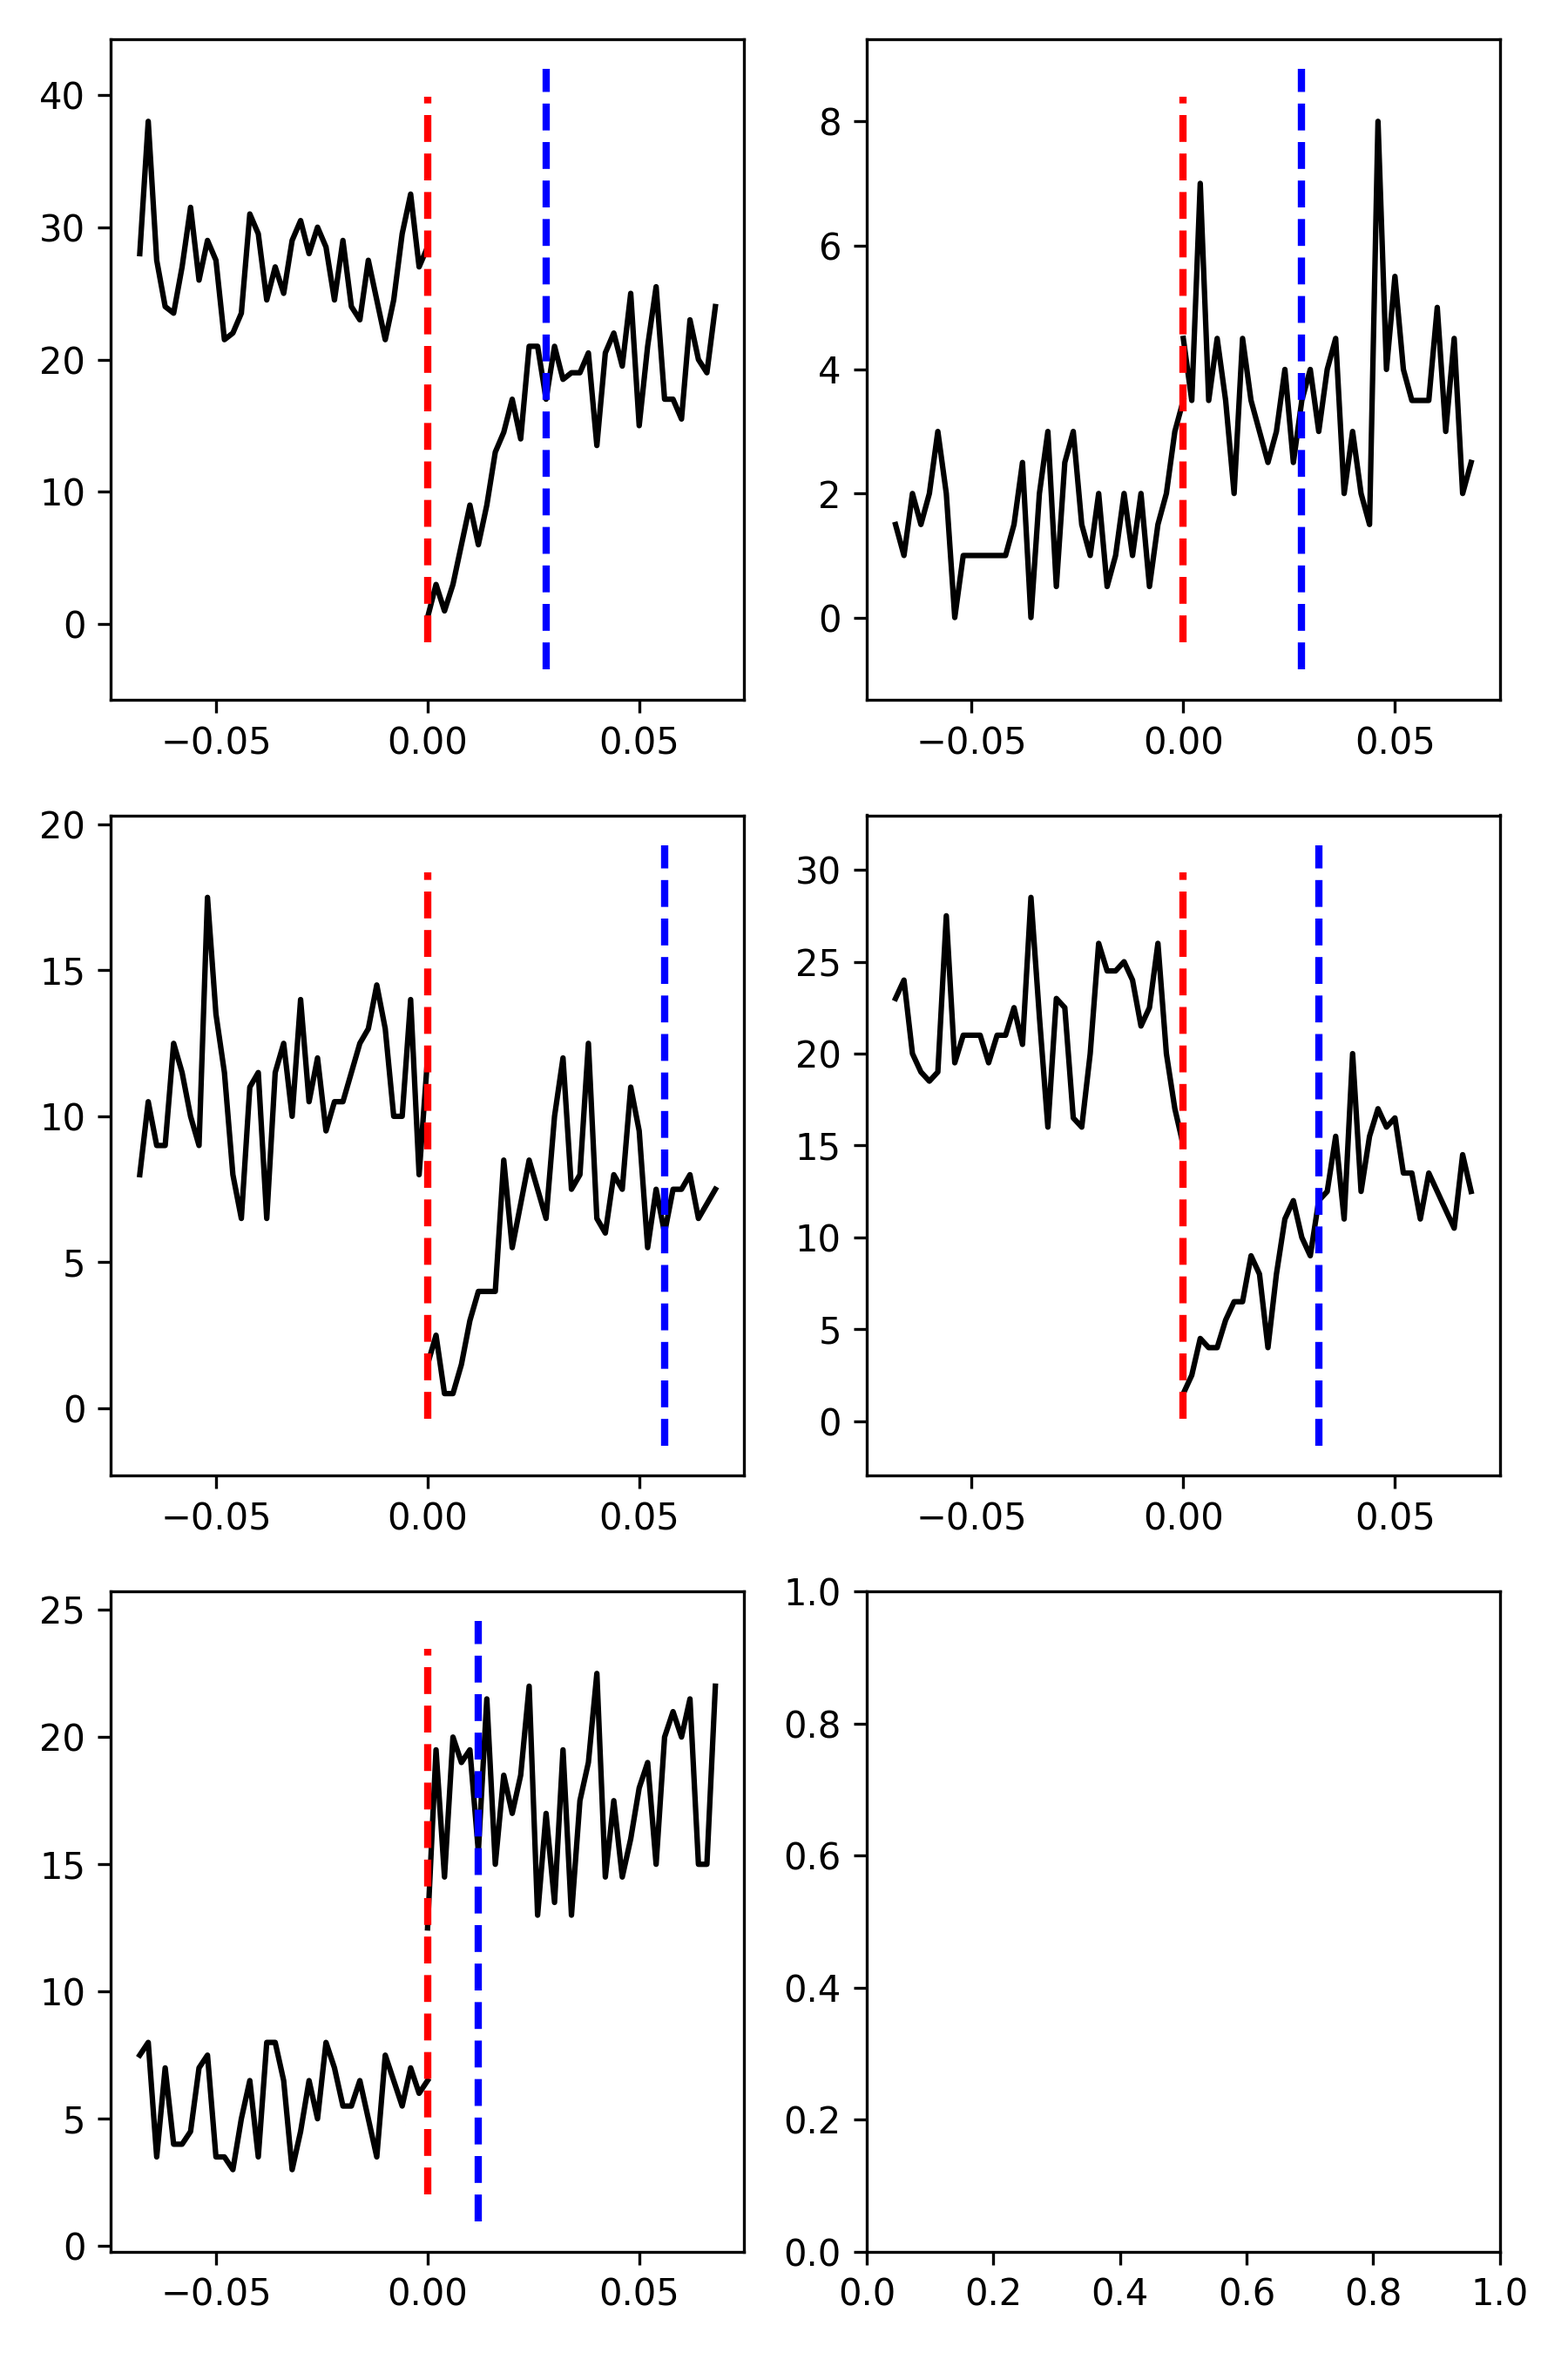
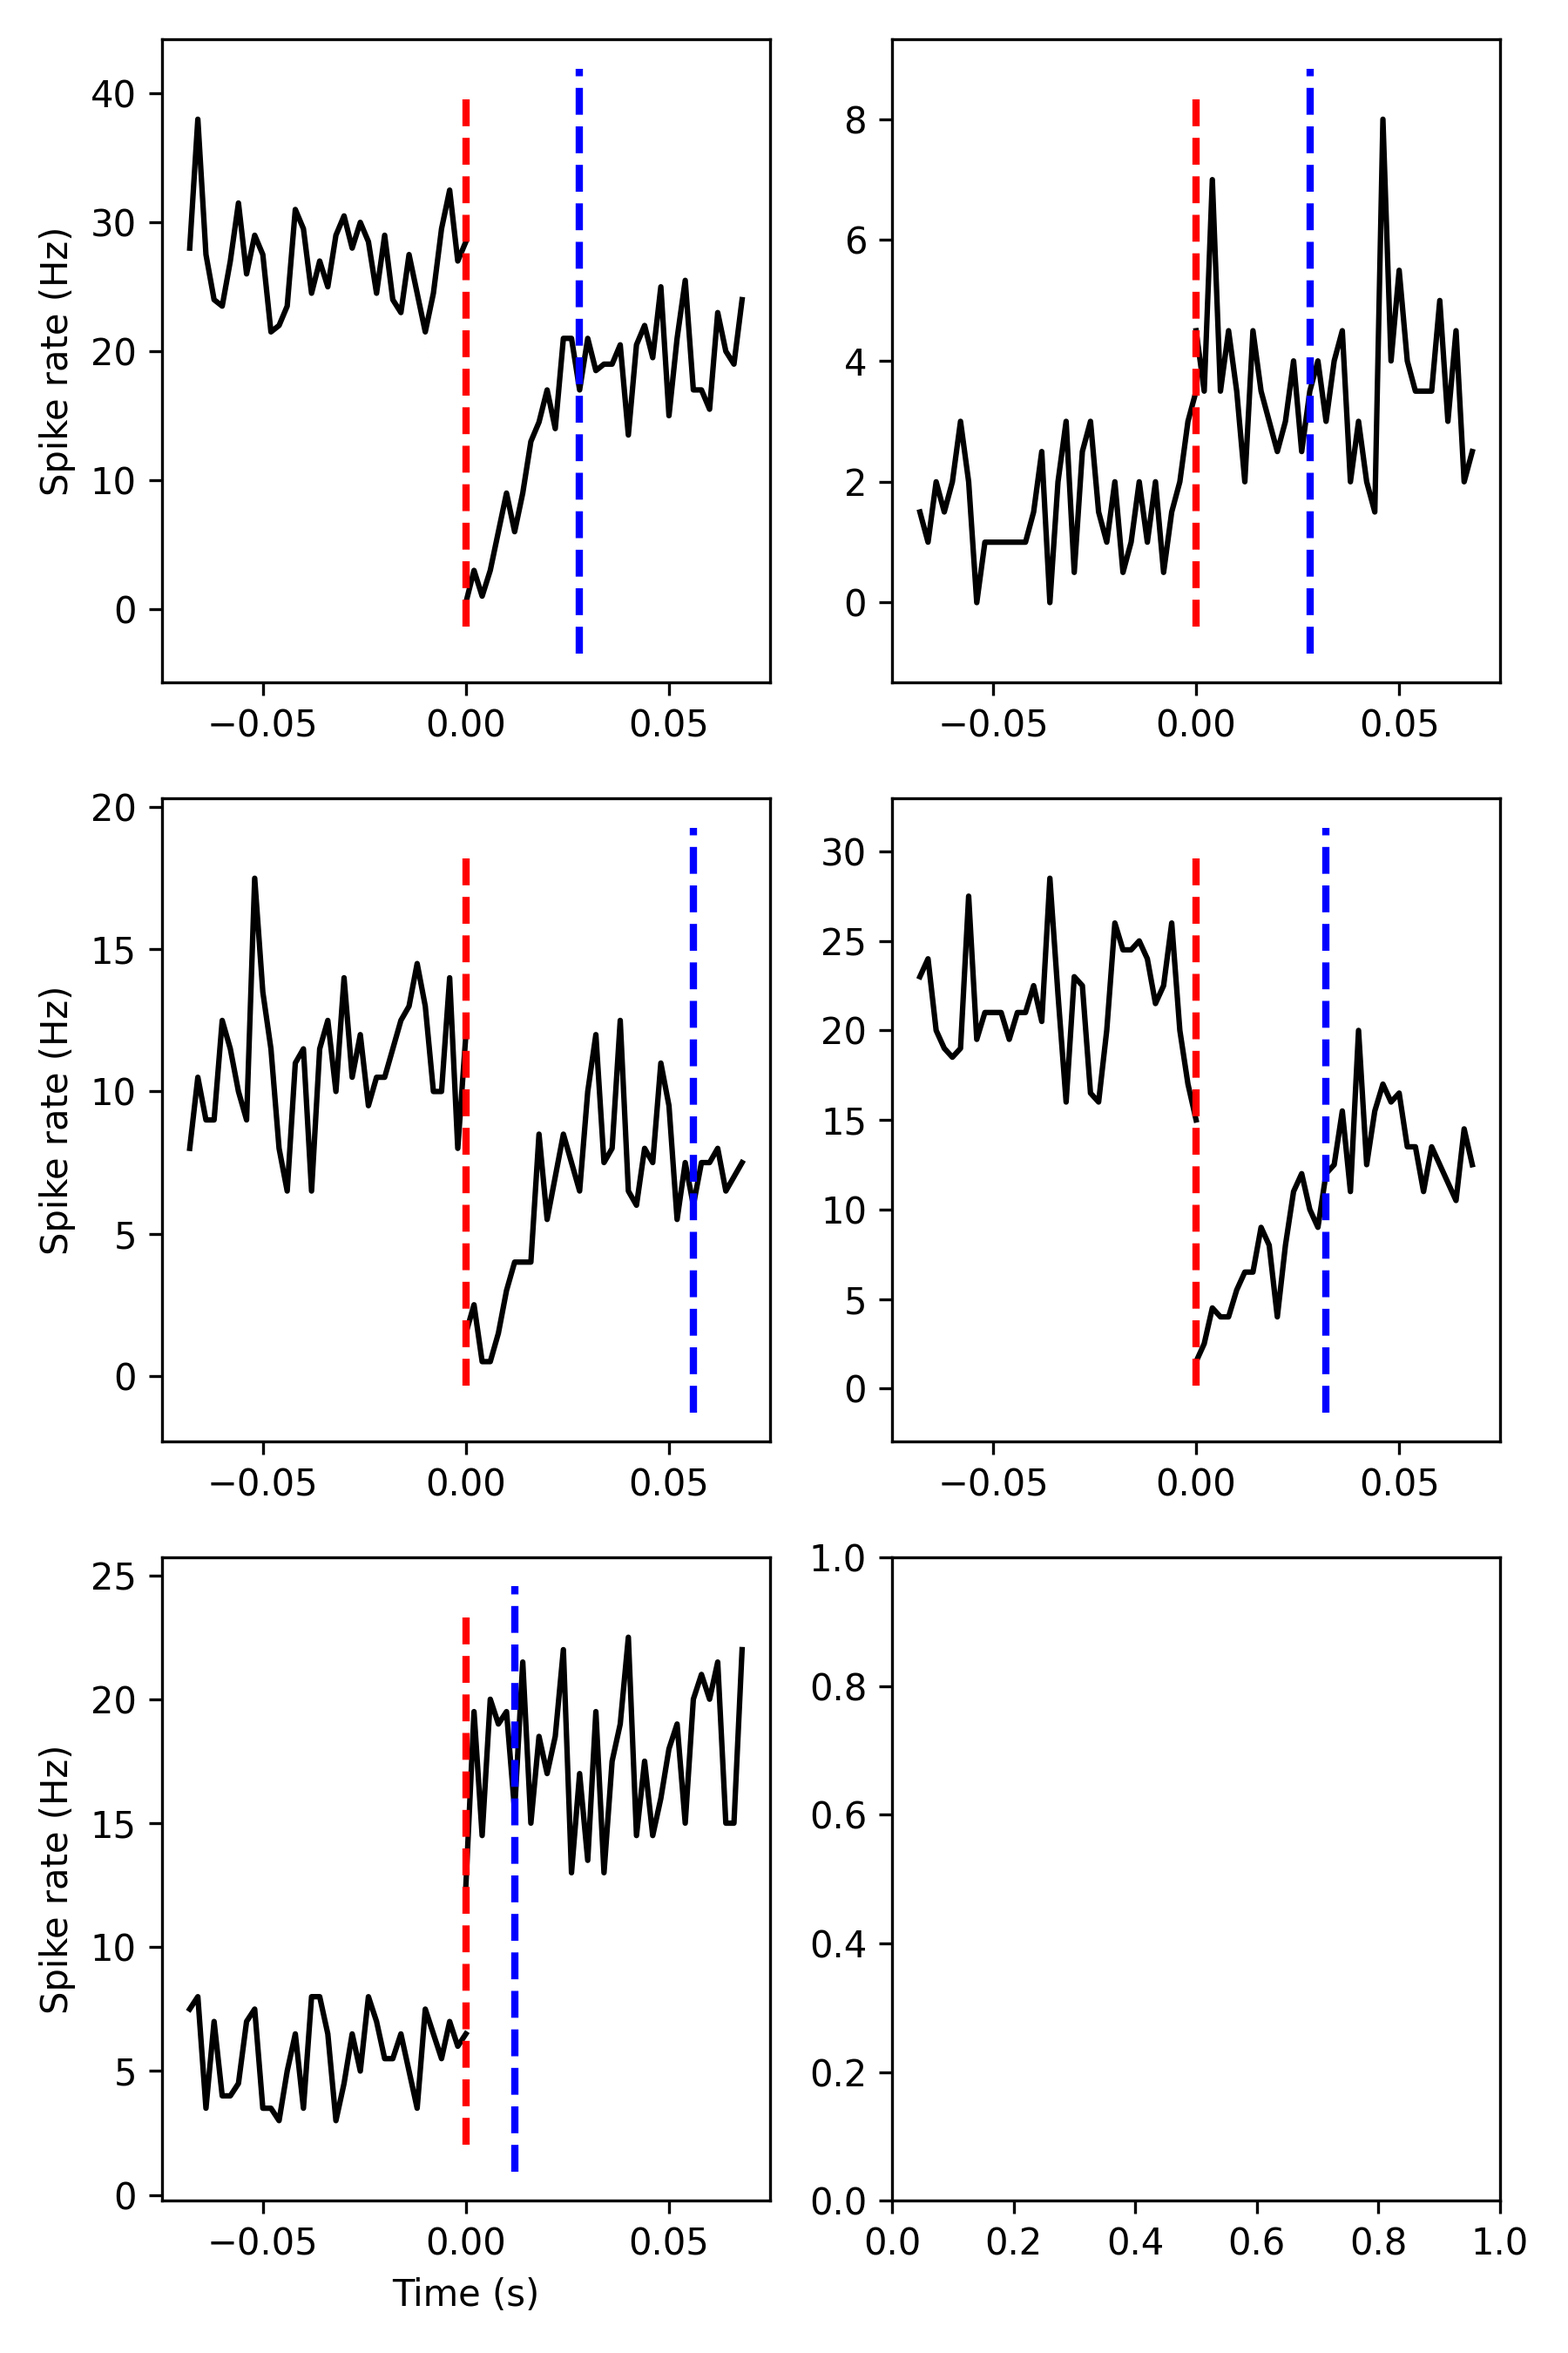
ryan comments

Changed region(s): [[0.0311, 0.0, 0.9644, 0.9956], [0.5289, 0.0311, 0.5911, 0.0622]]

diff --git a/tests/test_analysis.py b/tests/test_analysis.py
@@ -1443,6 +1443,11 @@ class LatencyTests(unittest.TestCase):
             ax[irow, icol].scatter(st[iunit,sorted_idx], np.arange(ntrial), color='m', marker='.')
             ax[irow, icol].plot([accllr_mean[iunit],accllr_mean[iunit]], ax[irow,icol].get_ylim(), 'b--', linewidth=2)
 
+            if irow == nrow-1:
+                ax[irow, icol].set_xlabel('Time (samples)')
+            if icol == 0:
+                ax[irow, icol].set_ylabel('Trial')
+
         fig.tight_layout()
         filename = 'accllr_sim_data_spike_rasters.png'
         aopy.visualization.savefig(docs_dir, filename, transparent=False)
@@ -1483,6 +1488,11 @@ class LatencyTests(unittest.TestCase):
             ax[irow, icol].scatter(st[iunit,sorted_idx], np.arange(ntrial), color='m', marker='.')
             ax[irow, icol].plot([accllr_mean[iunit],accllr_mean[iunit]], ax[irow,icol].get_ylim(), 'b--', linewidth=2)
 
+            if irow == nrow-1:
+                ax[irow, icol].set_xlabel('Time (s)')
+            if icol == 0:
+                ax[irow, icol].set_ylabel('Trial')
+
         fig.tight_layout()
         filename = 'accllr_test_data_spike_rasters.png'
         aopy.visualization.savefig(docs_dir, filename, transparent=False)
@@ -1497,6 +1507,10 @@ class LatencyTests(unittest.TestCase):
             ax[irow, icol].plot([0,0], ax[irow,icol].get_ylim(), 'r--', linewidth=2)
             ax[irow, icol].plot([accllr_mean[iunit],accllr_mean[iunit]], ax[irow,icol].get_ylim(), 'b--', linewidth=2)
             # ax[irow, icol].set_title(f"Unit {unit_labels[iunit]}")
+            if irow == nrow-1:
+                ax[irow, icol].set_xlabel('Time (s)')
+            if icol == 0:  
+                ax[irow, icol].set_ylabel('Spike rate (Hz)')
 
         fig.tight_layout()
         filename = 'accllr_test_data_spike_psth.png'

diff --git a/aopy/analysis/latency.py b/aopy/analysis/latency.py
@@ -280,12 +280,13 @@ def calc_accllr_lfp(lfp_altcond, lfp_nullcond, lfp_altcond_lowpass, lfp_nullcond
 def calc_llr_inh_poisson(spike_trial, rate1, rate2):
     '''
     Compute log-likelihood ratio for a single trial's binned spike train using two 
-    inhomogeneous Poisson rate models.
+    inhomogeneous Poisson rate models. Rates can be given in any units, so long
+    as they are consistent across all inputs.
     
     Args:
-        spike_trial: (nt,) array, binned spike counts for one trial
-        rate1: (nt,) array, mean rate for model 1 (Hz)
-        rate2: (nt,) array, mean rate for model 2 (Hz)
+        spike_trial: (nt,): binned spike counts for one trial
+        rate1: (nt,): rate model 1
+        rate2: (nt,): rate model 2
     
     Returns:
         (nt,) array: log-likelihood ratio per bin
